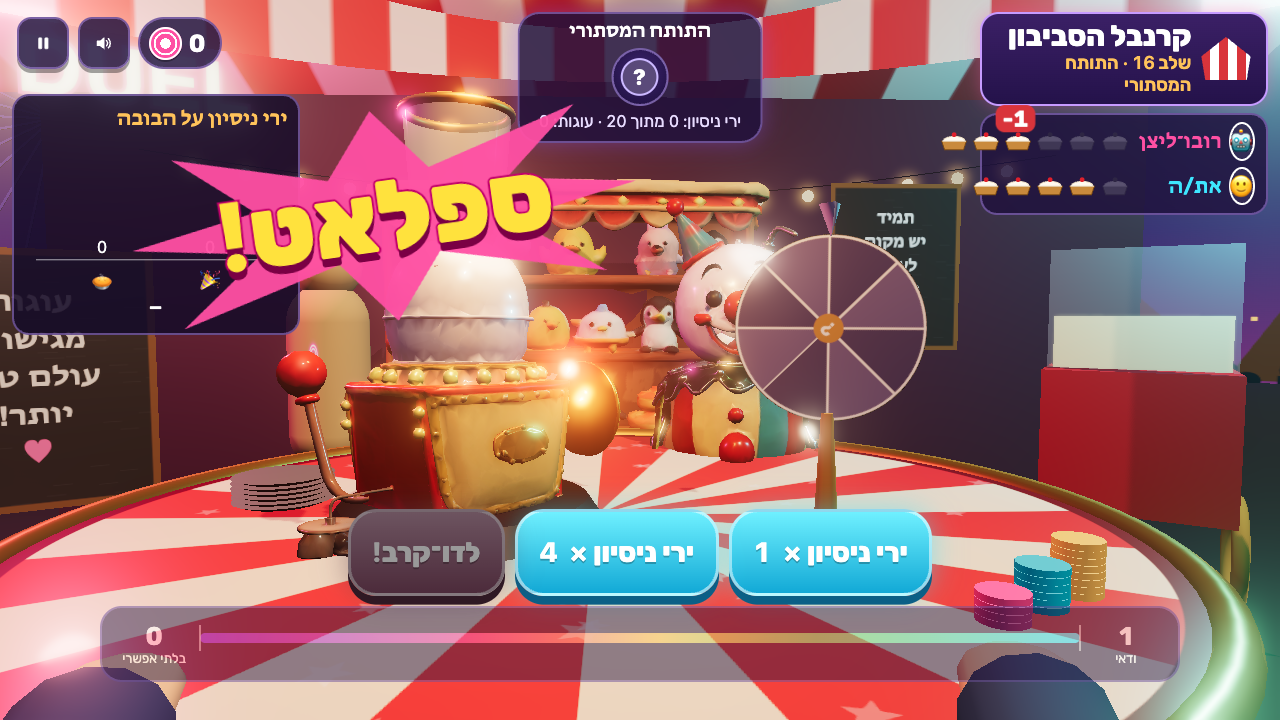
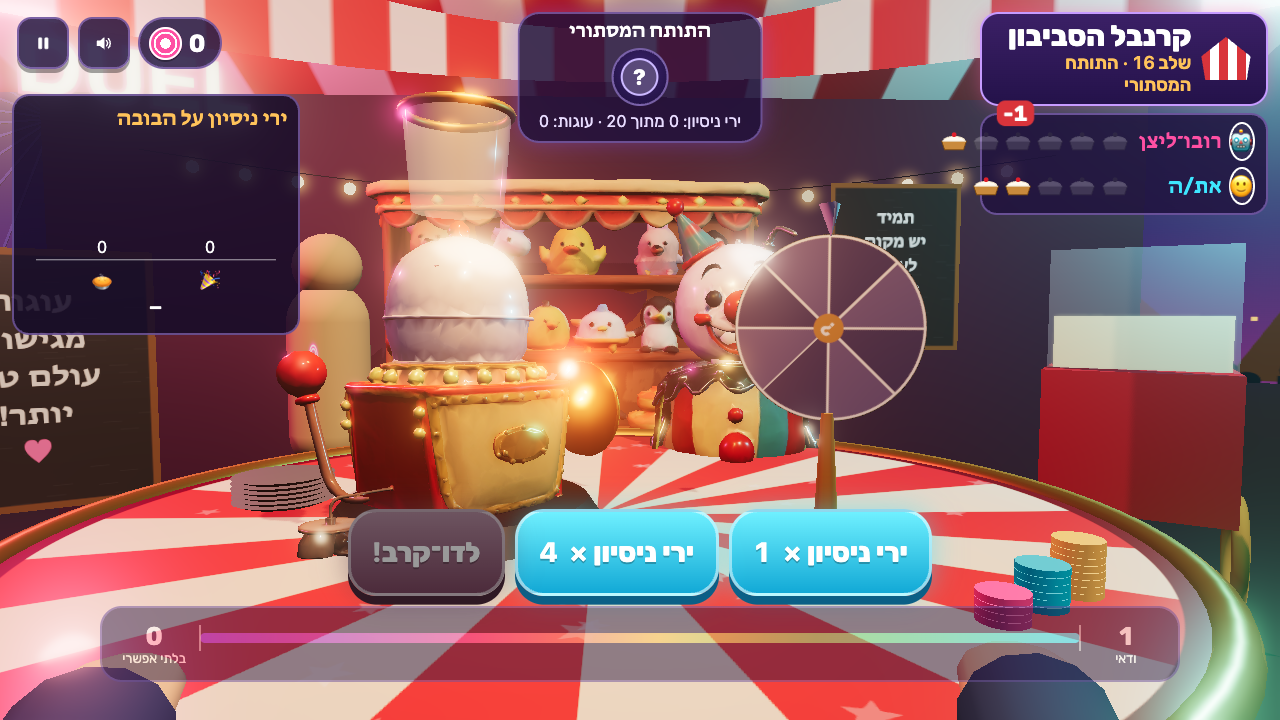
Big Mo plays the Double card when two shells beat one

diff --git a/src/core/duel.ts b/src/core/duel.ts
@@ -55,7 +55,7 @@ export type DuelEvent =
   | { t: 'chips'; delta: number; total: number; reason: string }
   | { t: 'test'; results: boolean[] }
   | { t: 'bet'; event: BetEvent; spins: [boolean, boolean]; happened: boolean }
-  | { t: 'thought'; who: PlayerId; key: 'dudDue' | 'pieDue' | 'odds' | 'always' | 'peek'; p?: Frac }
+  | { t: 'thought'; who: PlayerId; key: 'dudDue' | 'pieDue' | 'odds' | 'always' | 'peek' | 'double'; p?: Frac }
   | { t: 'explain'; key: 'selfOnPies' | 'rivalOnDuds' | 'unlucky' | 'goodCall'; p: Frac; choice: Choice }
   | { t: 'over'; winner: PlayerId | 'none'; reason: 'ko' | 'turns' };
 
@@ -79,6 +79,7 @@ export class Duel {
   meterShown = false;
   pendingCall: Frac | null = null;
   rivalPeeks: number;
+  rivalDoubles: number;
   rivalKnowsNext = false;
   decisions: Decision[] = [];
   events: DuelEvent[] = [];
@@ -103,6 +104,7 @@ export class Duel {
     this.hand = [...(level.hand ?? [])];
     this.meterUses = level.meter.kind === 'limited' ? level.meter.uses : level.meter.kind === 'on' ? Infinity : 0;
     this.rivalPeeks = level.rivalPeeks ?? 0;
+    this.rivalDoubles = level.rivalDoubles ?? 0;
     this.nextLoad(true);
   }
 
@@ -479,7 +481,7 @@ export class Duel {
   // ---------- rivals ----------
 
   /** What the rival will do now (pure; doesn't change state). */
-  rivalPlan(): { target: PlayerId; thought: DuelEvent & { t: 'thought' }; peek: boolean } {
+  rivalPlan(): { target: PlayerId; thought: DuelEvent & { t: 'thought' }; peek: boolean; double?: boolean } {
     const me = this.turn;
     const style = this.level.rival.style;
     const p = this.pFor(me);
@@ -487,6 +489,10 @@ export class Duel {
     if (style === 'naive') return { target: 'you', thought: { t: 'thought', who: me, key: 'always' }, peek: false };
     if (style === 'champion' && this.rivalPeeks > 0 && L.type === 'mag' && !this.rivalKnowsNext && cmp(p, frac(1, 3)) >= 0 && cmp(p, frac(2, 3)) <= 0)
       return { target: 'you', thought: { t: 'thought', who: me, key: 'peek', p }, peek: true };
+    if (style === 'champion' && this.rivalDoubles > 0 && this.shellsLeft() >= 2 && L.type !== 'bet') {
+      const pd = this.pDoubleFor(me);
+      if (cmp(pd, maxFrac(p, complement(p))) > 0) return { target: 'you', thought: { t: 'thought', who: me, key: 'double', p: pd }, peek: false, double: true };
+    }
     if (style === 'gambler' && 'history' in L && L.history.length >= 2) {
       const [x, y] = L.history.slice(-2);
       if (x === y) {
@@ -509,9 +515,36 @@ export class Duel {
       return true; // the next rivalStep acts on what it saw
     }
     this.events.push(plan.thought);
+    if (plan.double) {
+      // same table rule as your Double: each pie creams you; only two duds bring your counter-pie
+      this.rivalDoubles--;
+      this.events.push({ t: 'card', card: 'double', who: me });
+      const a = this.draw();
+      const b = this.draw();
+      this.shots++;
+      const before = this.shellsLeft() + 2;
+      for (const x of [a, b]) {
+        this.events.push({ t: 'shot', shooter: me, target: 'you', shell: x.shell, wheel: x.wheel, slot: before, of: before });
+        if (x.shell.kind === 'pie') this.hurt('you', 'pie');
+      }
+      if (a.shell.kind === 'dud' && b.shell.kind === 'dud') this.hurt(me, 'counter');
+      this.afterShot();
+      return true;
+    }
     this.shoot(me, plan.target);
     this.afterShot();
     return true;
+  }
+
+  /** P(at least one pie in the next two) from a seat's view. */
+  private pDoubleFor(seat: PlayerId): Frac {
+    const L = this.load;
+    if (L.type === 'mag') {
+      const known = seat === 'you' ? L.known : L.shells.map((_, i) => i === 0 && this.rivalKnowsNext);
+      return pAtLeastOneOfTwo({ shells: L.shells, known, nextFlavor: seat === 'you' ? L.nextFlavor : undefined });
+    }
+    const q = complement(this.pFor(seat));
+    return complement(frac(q.n * q.n, q.d * q.d));
   }
 
   // ---------- core shot ----------

diff --git a/tests/rivals.test.ts b/tests/rivals.test.ts
@@ -208,3 +208,29 @@ test(
     assert.equal(d.turn, 'r2');
   },
 );
+
+test('Big Mo fires his Double when "at least one pie in two" beats his best single shot, and only once', () => {
+  let used = 0;
+  for (let seed = 1; seed <= 200; seed++) {
+    const d = new Duel(levelById(17), seed);
+    let guard = 0;
+    while (d.phase !== 'over' && guard++ < 400) {
+      if (d.phase === 'rival') {
+        const before = d.rivalDoubles;
+        const plan = d.rivalPlan();
+        d.rivalStep();
+        const ev = d.drain();
+        if (plan.double) {
+          assert.equal(d.rivalDoubles, before - 1);
+          assert.ok(ev.some((e) => e.t === 'card' && e.card === 'double' && e.who === 'r1'));
+          assert.equal(ev.filter((e) => e.t === 'shot').length, 2);
+          used++;
+        }
+      } else if (d.phase === 'shop') d.leaveShop();
+      else d.fire(d.options().best.includes('self') && !d.options().best.includes('rival') ? 'self' : 'r1');
+      d.drain();
+    }
+    assert.ok(d.rivalDoubles >= 0);
+  }
+  assert.ok(used > 20, `Big Mo used Double in ${used} of 200 matches`);
+});

diff --git a/src/game.ts b/src/game.ts
@@ -234,7 +234,7 @@ export class Game {
         return this.showThought(e);
       case 'card':
         if (e.who !== 'you') {
-          this.toast(`${this.level.rival.name} מציץ בפגז הבא! 👀`);
+          this.toast(e.card === 'double' ? `${this.level.rival.name} שולף כפולה! ✌` : `${this.level.rival.name} מציץ בפגז הבא! 👀`);
           st.anim(e.who as Seat, 'laugh');
           this.sfx.card();
           await st.tweens.wait(900);
@@ -345,6 +345,7 @@ export class Game {
       dudDue: 'שתי עוגות ברצף… עכשיו בטוח יוצא ריק! אירה בעצמי.',
       pieDue: 'שני ריקים ברצף… עכשיו מגיעה עוגה! אליך!',
       peek: `${p}? לא בטוח… אציץ.`,
+      double: `לפחות עוגה אחת משתיים: ${p}. כפולה!`,
     };
     const th = $('thought');
     th.innerHTML = `<b>${name}:</b> ${text[e.key]}`;

diff --git a/src/core/types.ts b/src/core/types.ts
@@ -94,6 +94,8 @@ export interface LevelDef {
   shop?: ShopRule;
   /** the rival may also draw these cards (Big Mo). */
   rivalPeeks?: number;
+  /** Double cards the rival holds (Big Mo): fired when P(at least one pie in two) beats his best single shot. */
+  rivalDoubles?: number;
   transfer?: boolean;
   /** the flavor light shines on the next shell at the start of each of your turns. */
   autoFlavor?: boolean;

diff --git a/src/levels.ts b/src/levels.ts
@@ -328,6 +328,7 @@ export const LEVELS: LevelDef[] = [
     hand: ['double', 'flavor'],
     shop: { offers: ['flavor', 'peek', 'eject', 'double', 'spinner', 'magnifier'] },
     rivalPeeks: 2,
+    rivalDoubles: 1,
     transfer: true,
     stage: 'rooftop',
     seed: 1717,
